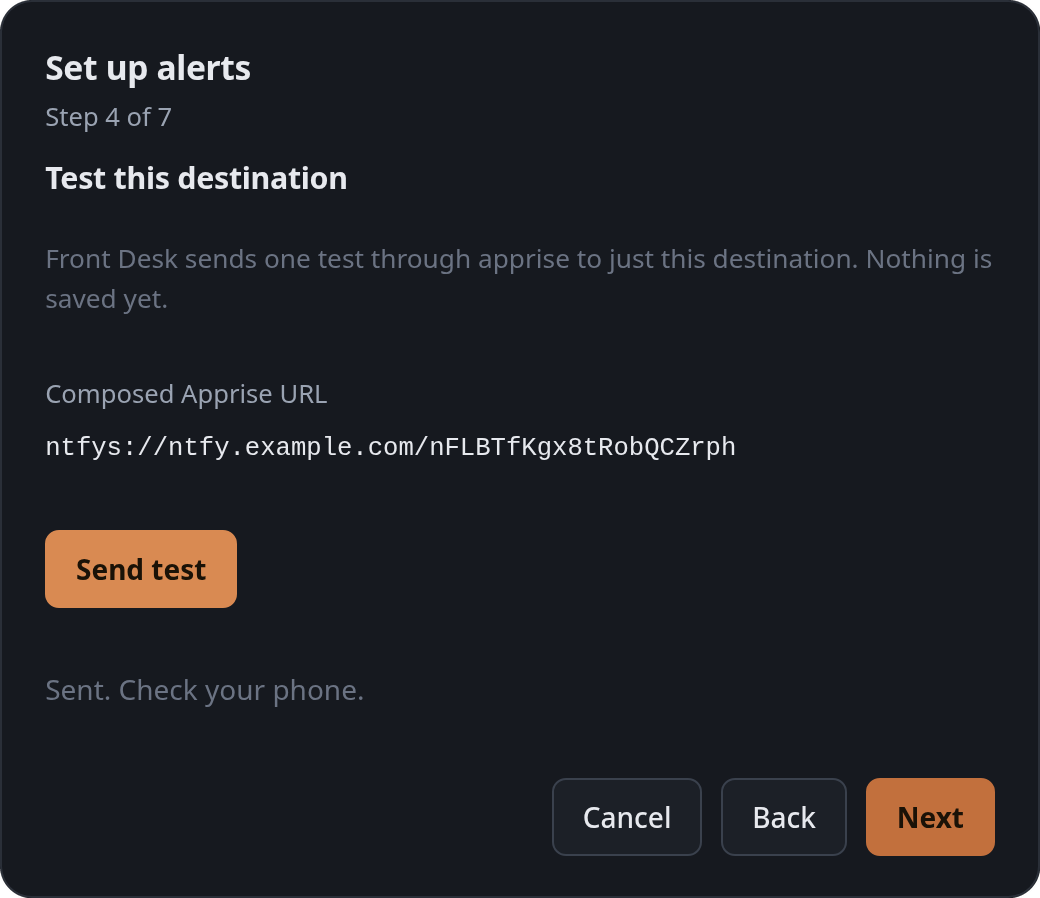
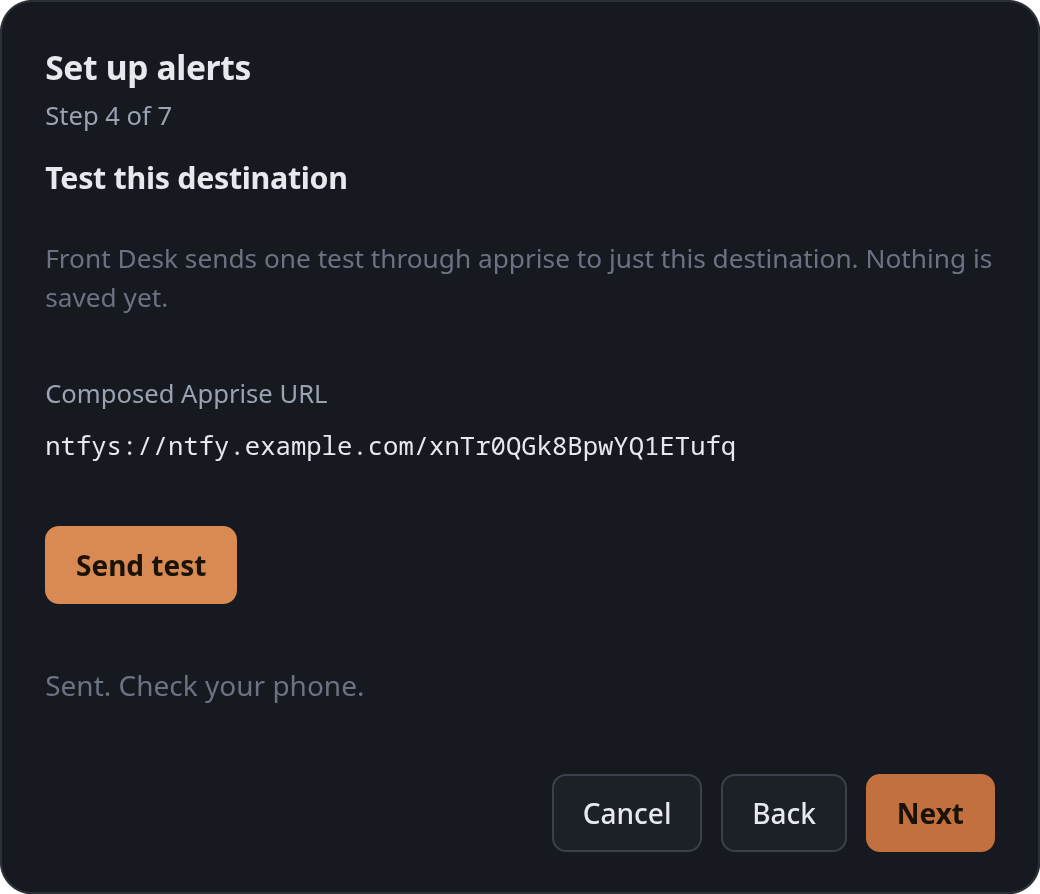
fix(frontdesk-web): drop the ntfy soft check the CSP can never let succeed

diff --git a/frontdesk/web/src/components/alerts/steps.tsx b/frontdesk/web/src/components/alerts/steps.tsx
@@ -183,27 +183,11 @@ export function StepKind({
 
 export function StepDetails({ state, dispatch, t }: StepProps) {
 	const kind = state.draft.kind;
-	const [softCheck, setSoftCheck] = useState<"none" | "ok" | "unknown">("none");
 	if (kind === null) return null;
 
 	const value = (key: string) => state.draft.fields[key] ?? "";
 	const set = (key: string, v: string) =>
 		dispatch({ type: "setField", key, value: v });
-
-	// A courtesy reachability ping at the server the operator typed, straight from
-	// the browser. It is only ever a hint: private servers, CORS and captive
-	// networks all make it fail for reasons that say nothing about whether Front
-	// Desk can deliver, which is what the next step actually proves.
-	const probeNtfyServer = () => {
-		const server = value("server").trim().replace(/\/+$/, "");
-		if (server === "") {
-			setSoftCheck("none");
-			return;
-		}
-		fetch(`${server}/v1/health`, { signal: AbortSignal.timeout(3000) })
-			.then((res) => setSoftCheck(res.ok ? "ok" : "unknown"))
-			.catch(() => setSoftCheck("unknown"));
-	};
 
 	const parsed =
 		kind === "bellhop" ? parseUnifiedPushEndpoint(value("endpoint")) : null;
@@ -220,9 +204,6 @@ export function StepDetails({ state, dispatch, t }: StepProps) {
 					label={t(`${K}.field.${f.key}`)}
 					value={value(f.key)}
 					onChange={(v) => set(f.key, v)}
-					onBlur={
-						kind === "ntfy" && f.key === "server" ? probeNtfyServer : undefined
-					}
 				>
 					{kind === "ntfy" && f.key === "topic" && (
 						<button
@@ -237,23 +218,16 @@ export function StepDetails({ state, dispatch, t }: StepProps) {
 				</Field>
 			))}
 
+			{/* Nothing here checks that the ntfy server answers: Front Desk serves
+			    `connect-src 'self'`, so a fetch at the operator's own server is
+			    blocked before it leaves the page and could only ever report
+			    failure. Step 4 sends from Front Desk, which is the side that has
+			    to reach the server anyway. */}
 			{kind === "ntfy" && (
 				<>
 					<p className="fd-faint" style={{ fontSize: "0.82rem" }}>
 						{t(`${K}.ntfyServerHint`)}
 					</p>
-					{softCheck !== "none" && (
-						<p
-							data-testid="wiz-ntfy-soft-check"
-							data-ok={softCheck === "ok" ? "true" : "false"}
-							className="fd-faint"
-							style={{ fontSize: "0.82rem" }}
-						>
-							{softCheck === "ok"
-								? t(`${K}.ntfySoftOk`)
-								: t(`${K}.ntfySoftUnknown`)}
-						</p>
-					)}
 					<div className="fd-stack" style={{ gap: "0.3rem" }}>
 						<p className="fd-faint" style={{ fontSize: "0.82rem" }}>
 							{t(`${K}.ntfySubscribe`)}
@@ -669,14 +643,12 @@ function Field({
 	label,
 	value,
 	onChange,
-	onBlur,
 	children,
 }: {
 	def: FieldDef;
 	label: string;
 	value: string;
 	onChange: (v: string) => void;
-	onBlur?: () => void;
 	children?: ReactNode;
 }) {
 	const id = `wiz-field-${def.key}`;
@@ -696,7 +668,6 @@ function Field({
 					placeholder={def.placeholder}
 					value={value}
 					onChange={(e) => onChange(e.target.value)}
-					onBlur={onBlur}
 				/>
 				{children}
 			</div>

diff --git a/frontdesk/web/src/components/alerts/__tests__/AlertsWizard.test.tsx b/frontdesk/web/src/components/alerts/__tests__/AlertsWizard.test.tsx
@@ -34,14 +34,6 @@ const catalog: AlertEventDef[] = [
 	},
 ];
 
-// The ntfy server field runs a soft reachability check on blur. It is a plain
-// browser fetch to the operator's own server, so msw (which errors on
-// unhandled requests) needs it declared; the result never gates anything.
-const softCheck = http.get(
-	/\/v1\/health$/,
-	() => new HttpResponse(null, { status: 200 }),
-);
-
 function renderWizard(over: Partial<AlertsWizardProps> = {}) {
 	const onFinished = vi.fn();
 	const onClose = vi.fn();
@@ -126,7 +118,6 @@ it("steps 2-4: composes an ntfy URL, requires a passing test, and never writes s
 	const puts: unknown[] = [];
 	const tests: unknown[] = [];
 	server.use(
-		softCheck,
 		http.post("/api/alert/probe", () =>
 			HttpResponse.json({ configured: true, reachable: true, healthy: true }),
 		),
@@ -260,7 +251,6 @@ it("falls back to step 1 when the saved apprise URL no longer answers", async ()
 it("re-locks a tested destination when the apprise URL changes", async () => {
 	const tests: { api_url: string }[] = [];
 	server.use(
-		softCheck,
 		http.post("/api/alert/probe", () =>
 			HttpResponse.json({ configured: true, reachable: true, healthy: true }),
 		),
@@ -374,7 +364,6 @@ it("steps 5-7: lists saved + new, applies the recommended preset, and writes onc
 	const puts: Record<string, unknown>[] = [];
 	const testBodies: string[] = [];
 	server.use(
-		softCheck,
 		http.post("/api/alert/probe", () =>
 			HttpResponse.json({ configured: true, reachable: true, healthy: true }),
 		),
@@ -454,7 +443,6 @@ it("steps 5-7: lists saved + new, applies the recommended preset, and writes onc
 
 it("recovers from a rejected Finish, a failed probe read and a failed final test", async () => {
 	server.use(
-		softCheck,
 		http.post("/api/alert/probe", () =>
 			HttpResponse.json({ configured: true, reachable: true, healthy: true }),
 		),
@@ -525,7 +513,6 @@ it("recovers from a rejected Finish, a failed probe read and a failed final test
 
 it("Add another returns to the list, and a row added here can be dropped again", async () => {
 	server.use(
-		softCheck,
 		http.post("/api/alert/probe", () =>
 			HttpResponse.json({ configured: true, reachable: true, healthy: true }),
 		),
@@ -573,7 +560,6 @@ it("Add another returns to the list, and a row added here can be dropped again",
 
 it("step 6 resets to the recommended preset and warns when nothing is ticked", async () => {
 	server.use(
-		softCheck,
 		http.post("/api/alert/probe", () =>
 			HttpResponse.json({ configured: true, reachable: true, healthy: true }),
 		),
@@ -612,7 +598,6 @@ it("step 6 resets to the recommended preset and warns when nothing is ticked", a
 
 it("warns on step 1 that changing the address drops this run's destinations", async () => {
 	server.use(
-		softCheck,
 		http.post("/api/alert/probe", () =>
 			HttpResponse.json({ configured: true, reachable: true, healthy: true }),
 		),

diff --git a/wiki/Alerting.md b/wiki/Alerting.md
@@ -65,7 +65,7 @@ Front Desk's **Settings → Alerts** card leads with **Set up alerts** (**Re-run
 *Step 1: the Apprise API URL after a successful Check. Next stays locked until the container answers.*
 
 ![Alerts wizard, step 3](screenshots/frontdesk_alerts_wizard_step3_ntfy.png)
-*Step 3 for the Phone (ntfy app) tile: server and topic as plain fields, Generate for a random topic, the subscribe instructions for the phone with copy buttons, and the composed Apprise URL underneath. The browser cannot reach an ntfy server across origins, so the courtesy line says so and step 4 does the real proving.*
+*Step 3 for the Phone (ntfy app) tile: server and topic as plain fields, Generate for a random topic, the subscribe instructions for the phone with copy buttons, and the composed Apprise URL underneath. Whether the server is reachable is settled by step 4, which sends from Front Desk rather than from the browser.*
 
 ![Alerts wizard, step 4](screenshots/frontdesk_alerts_wizard_step4_test.png)
 *Step 4: one test to the destination being added, through the step-1 container. Still nothing saved.*
